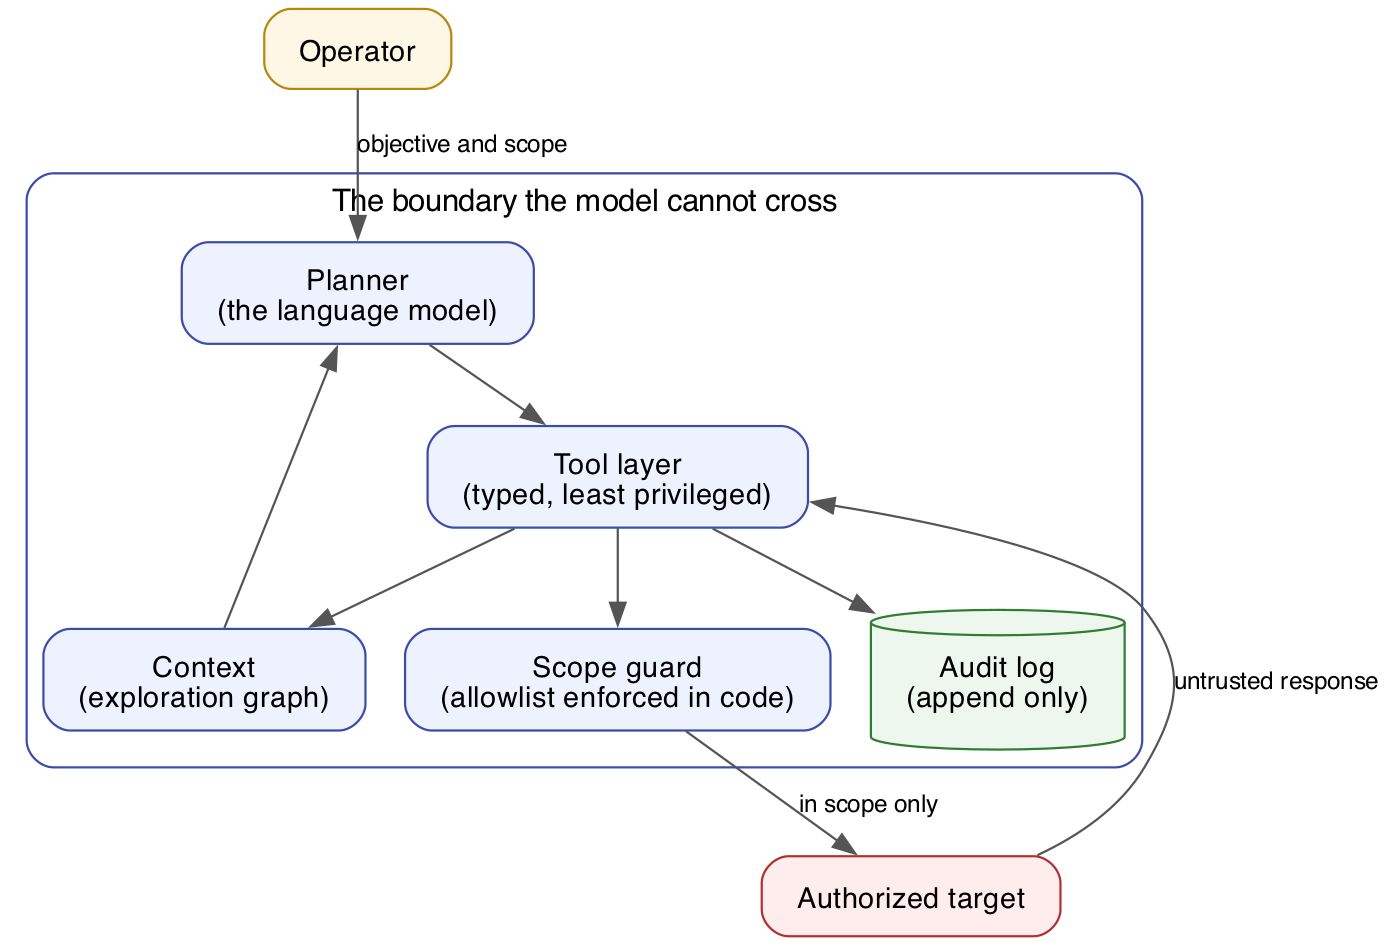
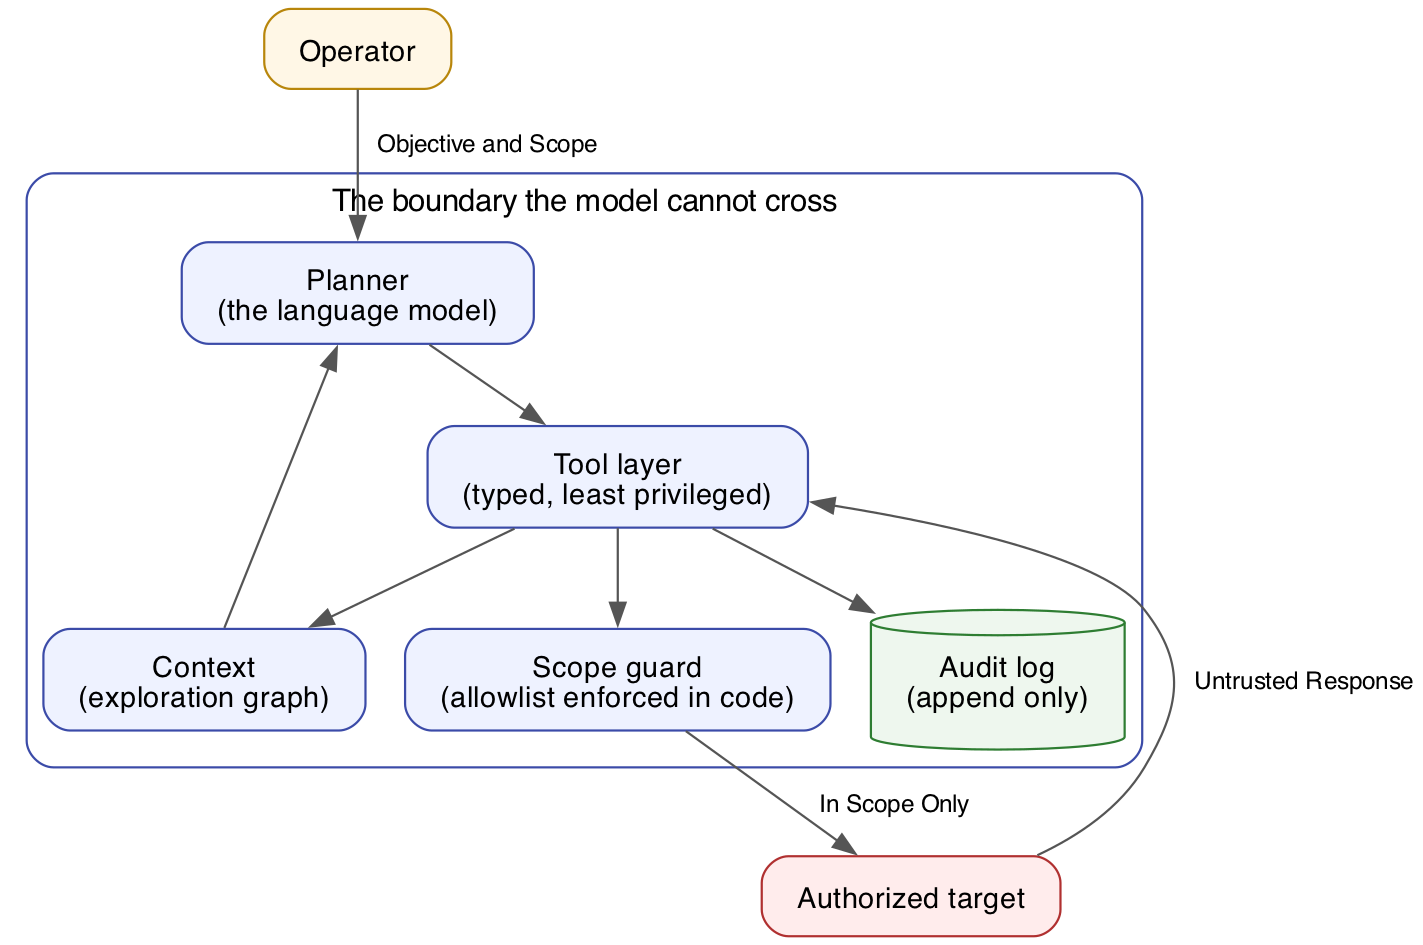
Title case the diagram labels and add a placement guide

diff --git a/docs/diagrams/README.md b/docs/diagrams/README.md
@@ -1,0 +1,11 @@
+# Diagrams
+
+Rendered diagrams for sharing, for example a LinkedIn article, where mermaid and markdown do not render and you need uploaded images.
+
+Where each one goes in the article.
+
+- arch.png, the boundary architecture, the whole idea in one picture. Place it right after the thesis, as the lead image.
+- flow.png, the path a single request travels down through the layers and back. Place it after the section on constraining in code rather than in prompts.
+- loop.png, the autonomy loop, reflect, act, update, repeat. Place it after the section on the exploration graph.
+
+For the article cover banner, the film still at ariadne-still.jpg is the most striking choice.